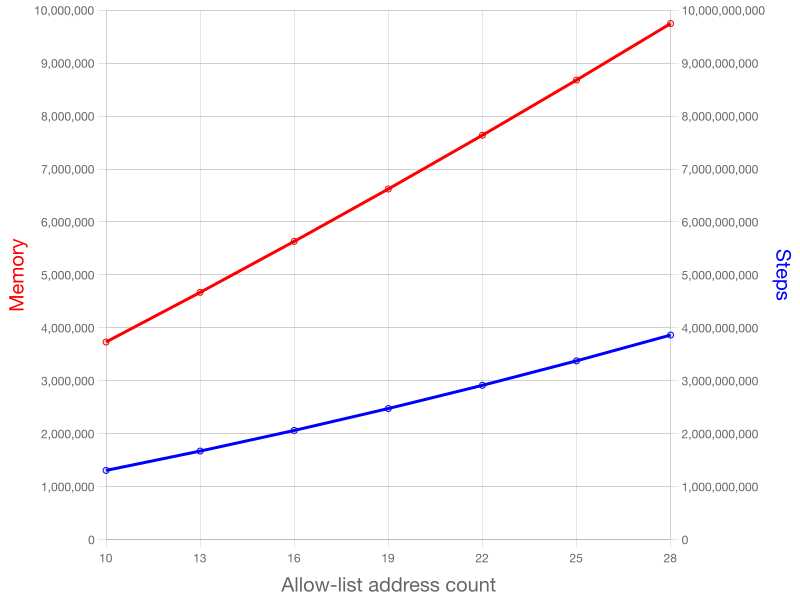
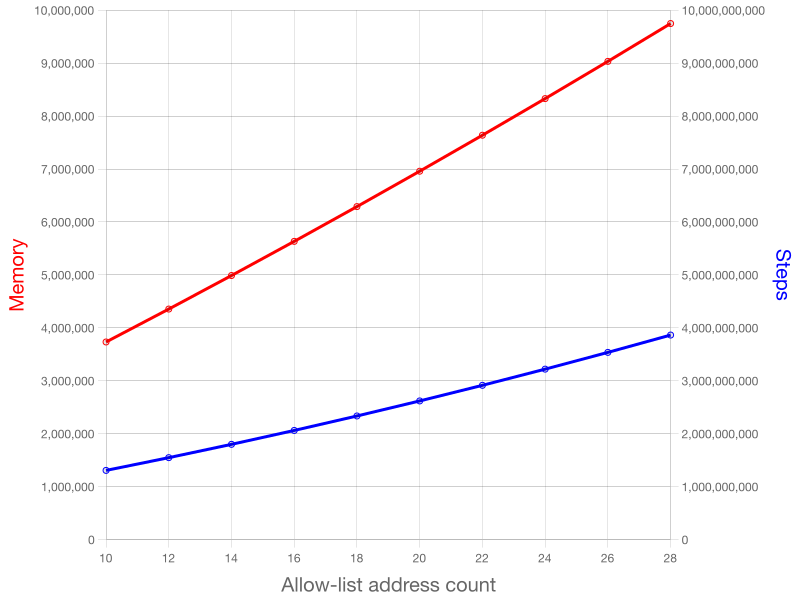
Refactor allow-list benchmarking code

diff --git a/offchain/benchmarks/mlabs.test.ts b/offchain/benchmarks/mlabs.test.ts
@@ -51,38 +51,10 @@ type ExUnitData = {
 // a WASM error: RuntimeError: Unreachable code should not be executed (evaluating 'wasm.eval_phase_two_raw(..)') 
 describe("Benchmark: on-chain execution performance limitations of allowlist vendor contract", () => {
   test("bench1: withdraw a payout to single address", async () => {
-    const xs = [];
-    const mem = [];
-    const steps = [];
-
-    for (let i = 10; i < 300; i += 10) {
-      try {
-        const exUnits = await runWithNAddresses({ assets: [], outputAddresses: 1, allowListAddresses: i, payouts: 1 })
-
-        xs.push(i);
-        mem.push(exUnits.mem);
-        steps.push(exUnits.steps);
-      } catch (err) {
-        if (typeof err === "string") {
-          if (err.includes("execution went over budget")) {
-            break;
-          }
-        }
-
-        throw err;
-      }
-    }
-
-    await printExUnitChart("./benchmarks/results/bench1.png",
-      { xs, xLabel: "Allow-list address count", mem, steps }
-    )
+    runBench("bench1", "Allow-list address count", x => ({ assets: [], outputAddresses: 1, allowListAddresses: x, payouts: 1 }), 10, 10);
   });
 
   test("bench2: withdraw n payouts with 4 asset classes to single address", async () => {
-    const xs = [];
-    const mem = [];
-    const steps = [];
-
     const assets =
       ["b".repeat(56),
       "c".repeat(56),
@@ -90,62 +62,14 @@ describe("Benchmark: on-chain execution performance limitations of allowlist ven
       "e".repeat(56),
       ];
 
-    for (let i = 1; i < 200; i += 1) {
-      try {
-        const exUnits = await runWithNAddresses({ assets, outputAddresses: 1, allowListAddresses: 1, payouts: i })
-
-        xs.push(i);
-        mem.push(exUnits.mem);
-        steps.push(exUnits.steps);
-      } catch (err) {
-        if (typeof err === "string") {
-          if (err.includes("execution went over budget")) {
-            break;
-          }
-        }
-
-        throw err;
-      }
-    }
-
-    await printExUnitChart("./benchmarks/results/bench2.png",
-      { xs, xLabel: "Payouts", mem, steps }
-    )
+    runBench("bench2", "Payouts", x => ({ assets, outputAddresses: 1, allowListAddresses: 1, payouts: x }));
   });
 
   test("bench3: withdraw a payout to multiple addresses", async () => {
-    const xs = [];
-    const mem = [];
-    const steps = [];
-
-    for (let i = 10; i < 300; i += 2) {
-      try {
-        const exUnits = await runWithNAddresses({ assets: [], outputAddresses: i, allowListAddresses: i, payouts: 1 })
-
-        xs.push(i);
-        mem.push(exUnits.mem);
-        steps.push(exUnits.steps);
-      } catch (err) {
-        if (typeof err === "string") {
-          if (err.includes("execution went over budget")) {
-            break;
-          }
-        }
-
-        throw err;
-      }
-    }
-
-    await printExUnitChart("./benchmarks/results/bench3.png",
-      { xs, xLabel: "Allow-list address count", mem, steps }
-    )
+    runBench("bench3", "Allow-list address count", x => ({ assets: [], outputAddresses: x, allowListAddresses: x, payouts: 1 }), 10, 2);
   });
 
   test("bench4: withdraw a payout consisting of 4 asset classes + ada to multiple addresses", async () => {
-    const xs = [];
-    const mem = [];
-    const steps = [];
-
     const assets =
       ["b".repeat(56),
       "c".repeat(56),
@@ -153,35 +77,13 @@ describe("Benchmark: on-chain execution performance limitations of allowlist ven
       "e".repeat(56),
       ];
 
-    for (let i = 10; i < 300; i += 2) {
-      try {
-        const exUnits = await runWithNAddresses({ assets, outputAddresses: i, allowListAddresses: i, payouts: 1 })
-
-        xs.push(i);
-        mem.push(exUnits.mem);
-        steps.push(exUnits.steps);
-        i += 1;
-      } catch (err) {
-        if (typeof err === "string") {
-          if (err.includes("execution went over budget")) {
-            break;
-          }
-        }
-
-        throw err;
-      }
-    }
-
-    await printExUnitChart("./benchmarks/results/bench4.png",
-      { xs, xLabel: "Allow-list address count", mem, steps }
-    )
+    runBench("bench4", "Allow-list address count",
+      x => ({
+        assets, outputAddresses: x, allowListAddresses: x, payouts: 1
+      }), 10, 2);
   });
 
   test("bench5: withdraw 16 payouts consisting of 4 asset classes + ada to multiple addresses", async () => {
-    const xs = [];
-    const mem = [];
-    const steps = [];
-
     const assets =
       ["b".repeat(56),
       "c".repeat(56),
@@ -189,30 +91,49 @@ describe("Benchmark: on-chain execution performance limitations of allowlist ven
       "e".repeat(56),
       ];
 
-    for (let i = 1; i < 300; i += 1) {
-      try {
-        const exUnits = await runWithNAddresses({ assets, outputAddresses: i, allowListAddresses: i, payouts: 16 })
-
-        xs.push(i);
-        mem.push(exUnits.mem);
-        steps.push(exUnits.steps);
-        i += 1;
-      } catch (err) {
-        if (typeof err === "string") {
-          if (err.includes("execution went over budget")) {
-            break;
-          }
-        }
-
-        throw err;
-      }
-    }
-
-    await printExUnitChart("./benchmarks/results/bench5.png",
-      { xs, xLabel: "Allow-list address count", mem, steps }
-    )
+    runBench("bench5", "Allow-list address count",
+      x => (
+        { assets, outputAddresses: x, allowListAddresses: x, payouts: 16 }
+      ));
   });
 });
+
+// Run a benchmark with different parameters
+async function runBench(
+  filename: string,
+  xLabel: string,
+  options: (x: number) => AllowListBenchOpts,
+  xStart: number = 1,
+  xStep: number = 1,
+  xEnd: number = 300
+
+): Promise<void> {
+  const xs = [];
+  const mem = [];
+  const steps = [];
+
+  for (let i = xStart; i < xEnd; i += xStep) {
+    try {
+      const exUnits = await runWithNAddresses(options(i))
+
+      xs.push(i);
+      mem.push(exUnits.mem);
+      steps.push(exUnits.steps);
+    } catch (err) {
+      if (typeof err === "string") {
+        if (err.includes("execution went over budget")) {
+          break;
+        }
+      }
+
+      throw err;
+    }
+  }
+
+  await printExUnitChart(`./benchmarks/results/${filename}.png`,
+    { xs, xLabel, mem, steps }
+  )
+}
 
 // Run a bencmark on the vendor contract using the allow-list with increasing number of addresses.
 async function runWithNAddresses(options: AllowListBenchOpts): Promise<ExecutionUnits> {
